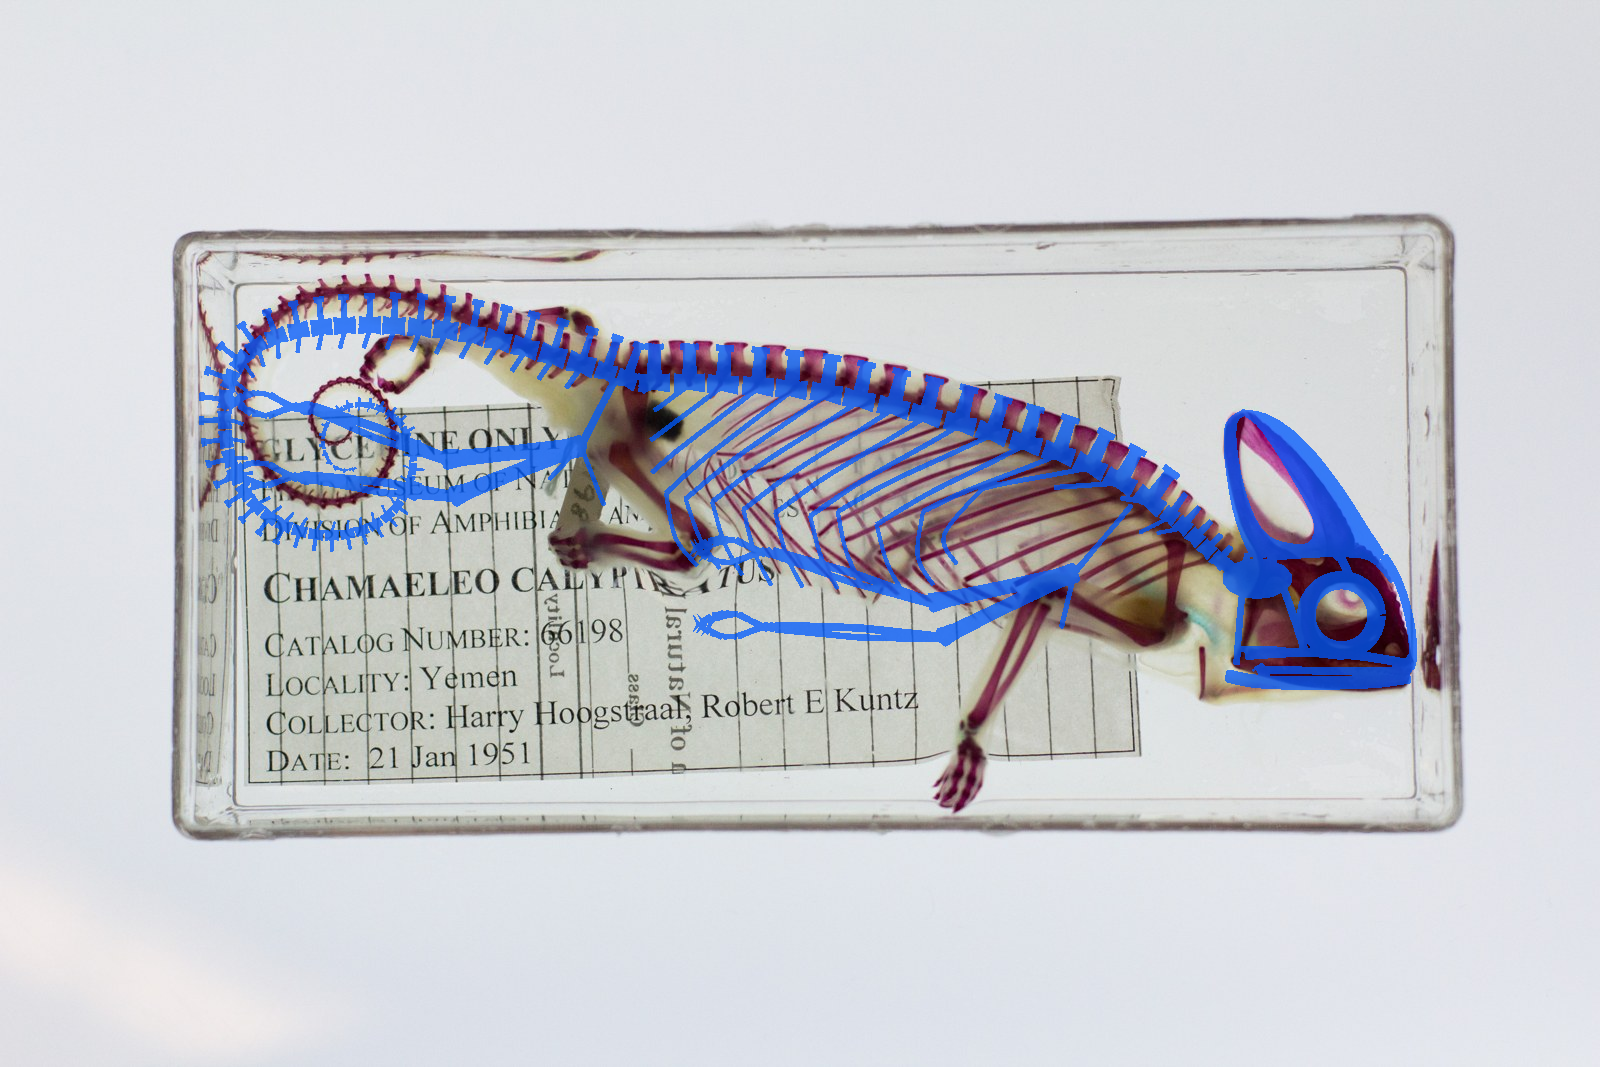
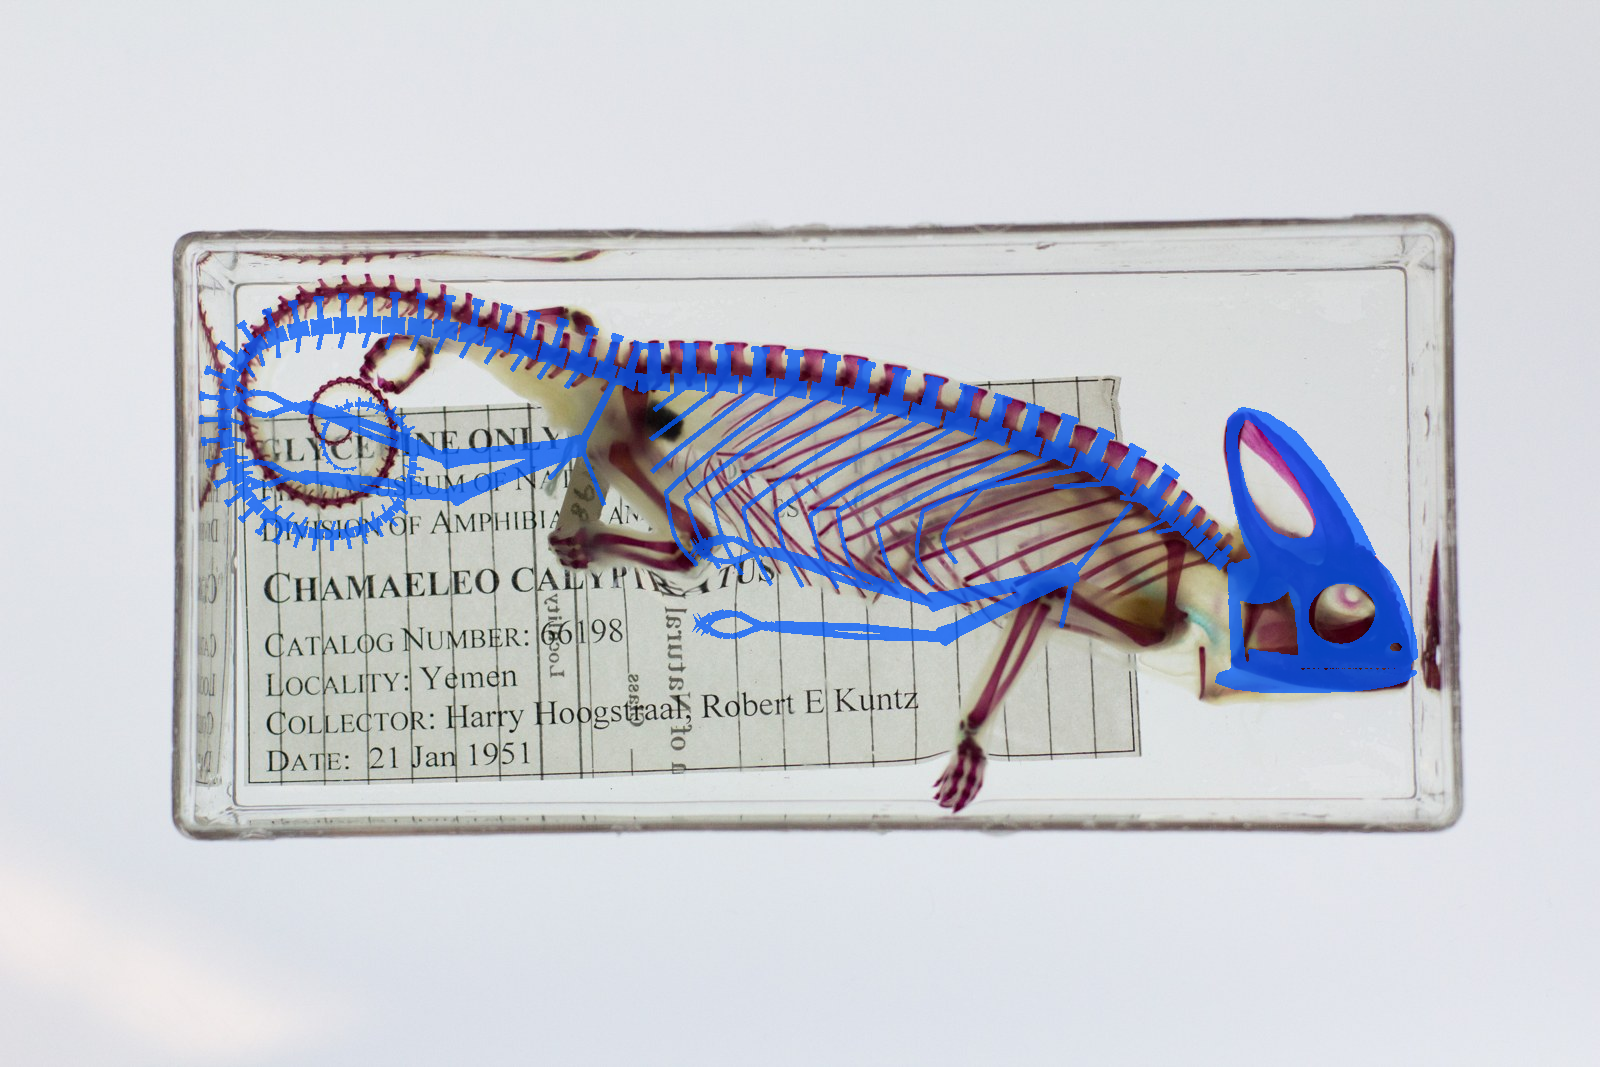
chameleon: rebuild skull from fused plates and bands (no more wire cage)
- chameleon_skull.py: lateral plates with real openings (orbit, nostril, preorbital; lower temporal
  opening left open below as in squamates), roof, casque blade with paired squamosal rods,
  deep mandible, interlocking teeth, quadrate/pterygoid, tubercles; voxel-remeshed into one shell,
  smoothed, dorsal rugosity, decimated
- casque height stays at 06 (1.5x skull length) per producer
- ratios unchanged (4.56 / 0.47 / 1.55); stills and 06 overlay regenerated
- watermarked pasted references ignored; 07 removed by the producer

Claude-Session: https://claude.ai/code/session_01TF4RLk5KhXAPd4WrhCdN5z

Changed region(s): [[0.75, 0.4948, 0.9062, 0.6495]]

diff --git a/blender/chameleon_skull.py b/blender/chameleon_skull.py
@@ -1,0 +1,327 @@
+"""
+エボシカメレオン頭骨（手順 1 の作り直し、2026-10-12）
+
+方針: 骨を細い管で組まない。実物の輪郭どおりの「穴のあいた板」と「帯」を作り、
+重ねたまま Voxel Remesh で 1 つの殻に融合し、ならしてから表面のざらつきを付ける。
+
+頭の局所座標（generate_chameleon_contour.Head と同じ）:
+  a = 方形骨の後縁 0 → 吻端 1（頭骨長 L = 1）、b = 顎の線から背側へ、y = 左右。
+  画素 (x, y) は [06] の原寸で a = (x - 3975) / 601、b = (2160 - y) / 601。
+
+形の出どころ:
+  [06]  外形・かぶと・眼窩・背側の稜・鼻孔の位置・下顎の下縁（実物の C. calyptratus 標本の側面）
+  [p6]  ユーザーが保存した頭骨の側面写真（透かし入り、リポジトリ外）: 側頭窓・眼窩前の孔・方形骨の柱・下顎の高さ
+  [p4][p1] 斜め前と正面の写真: 幅（眼窩で最も広く、吻と頭頂へ狭まる。かぶとは正中の薄い刃）
+  幅の値（眼窩の高さで半幅 0.24 L）は p1 の目測で、測定ではない。
+"""
+
+import math
+
+import bmesh
+import bpy
+import numpy as np
+from mathutils import Vector, noise
+
+
+def px2ab(x, y):
+    return ((x - 3975.0) / 601.0, (2160.0 - y) / 601.0)
+
+
+def interp(table, x):
+    xs = [p[0] for p in table]
+    ys = [p[1] for p in table]
+    return float(np.interp(x, xs, ys))
+
+
+def ellipse(c, ra, rb, n=40, rot=0.0):
+    cr, sr = math.cos(rot), math.sin(rot)
+    out = []
+    for k in range(n):
+        t = 2 * math.pi * k / n
+        u, v = ra * math.cos(t), rb * math.sin(t)
+        out.append((c[0] + u * cr - v * sr, c[1] + u * sr + v * cr))
+    return out
+
+
+def inside(poly, P):
+    """点の配列 P (N,2) が多角形 poly の内側か（偶奇則）。"""
+    x, y = P[:, 0], P[:, 1]
+    res = np.zeros(len(P), dtype=bool)
+    n = len(poly)
+    for i in range(n):
+        x1, y1 = poly[i]
+        x2, y2 = poly[(i + 1) % n]
+        cond = ((y1 > y) != (y2 > y))
+        with np.errstate(divide="ignore", invalid="ignore"):
+            xin = (x2 - x1) * (y - y1) / (y2 - y1 + 1e-12) + x1
+        res ^= cond & (x < xin)
+    return res
+
+
+def slab(bm, outline, holes, to3d, thick_vec, res=0.008):
+    """(u, v) 平面の領域（outline の内側、holes の外側）を格子で埋め、厚みのある閉じた板にする。
+    to3d(u, v) → 表の面の点、thick_vec(u, v) → 裏へ向かう厚みのベクトル。"""
+    us = [p[0] for p in outline]
+    vs = [p[1] for p in outline]
+    u0, u1, v0, v1 = min(us), max(us), min(vs), max(vs)
+    nu, nv = int((u1 - u0) / res) + 2, int((v1 - v0) / res) + 2
+    cu = u0 + (np.arange(nu) + 0.5) * res
+    cv = v0 + (np.arange(nv) + 0.5) * res
+    G = np.stack(np.meshgrid(cu, cv, indexing="ij"), -1).reshape(-1, 2)
+    m = inside(outline, G)
+    for h in holes:
+        m &= ~inside(h, G)
+    m = m.reshape(nu, nv)
+    verts = {}
+
+    def V(i, j, layer):
+        key = (i, j, layer)
+        if key not in verts:
+            u, v = u0 + i * res, v0 + j * res
+            p = to3d(u, v)
+            if layer:
+                p = p + thick_vec(u, v)
+            verts[key] = bm.verts.new(p)
+        return verts[key]
+
+    for i in range(nu):
+        for j in range(nv):
+            if not m[i, j]:
+                continue
+            a, b, c, d = (i, j), (i + 1, j), (i + 1, j + 1), (i, j + 1)
+            bm.faces.new([V(*a, 0), V(*b, 0), V(*c, 0), V(*d, 0)])
+            bm.faces.new([V(*d, 1), V(*c, 1), V(*b, 1), V(*a, 1)])
+            for (p, q), (di, dj) in (((a, b), (0, -1)), ((b, c), (1, 0)), ((c, d), (0, 1)), ((d, a), (-1, 0))):
+                ni, nj = i + di, j + dj
+                if not (0 <= ni < nu and 0 <= nj < nv and m[ni, nj]):
+                    bm.faces.new([V(*p, 0), V(*p, 1), V(*q, 1), V(*q, 0)])
+
+
+# ---------------------------------------------------------------- 形の表（a, b）
+# 頭骨の側面の外周 [06]: 顎の線 → 吻端 → 背側のぎざぎざの稜 → 眼窩の上の屋根 → 後ろの方形骨
+DORSAL_RIDGE = [px2ab(x, y) for x, y in ((4600, 2150), (4596, 2080), (4575, 2000), (4545, 1920), (4505, 1850), (4450, 1800))]
+# 有鱗類は下側頭弓が無いので、眼窩の後ろの下側頭窓は下が開いている（[p6] 眼窩の後ろから翼状骨が見える）。
+# 側面の板は、眼窩の後ろの柱（後眼窩骨）と、その上の上側頭弓の帯だけを後ろへ伸ばす
+LATERAL_OUTLINE = ([(0.405, 0.0), (0.98, 0.0), (1.02, 0.04)] + DORSAL_RIDGE[1:] +
+                   [(0.70, 0.635), (0.55, 0.645), (0.42, 0.635), (0.30, 0.62), (0.18, 0.60), (0.10, 0.578),
+                    (0.05, 0.55), (0.04, 0.50), (0.12, 0.465), (0.28, 0.46), (0.345, 0.43), (0.375, 0.34),
+                    (0.385, 0.20), (0.39, 0.08)])
+ORBIT_C = (0.632, 0.30)      # [06] 眼球の中心（0.29）より少し上。[p6] 眼窩の上縁は屋根に近い
+ORBIT_R = (0.205, 0.19)      # 骨の開口。[p6] 開口の幅は頭骨長の約 0.3、縁を含めて 0.45（[06]）
+ORBIT_ROT = 0.25             # 後ろ上がりの卵形（[p6]）
+# 眼窩の後ろの下側頭窓 [p6]（眼窩との間に太い後眼窩骨の柱を残す）
+TEMPORAL = [(0.13, 0.20), (0.30, 0.15), (0.37, 0.21), (0.375, 0.34), (0.32, 0.45), (0.19, 0.46), (0.115, 0.38), (0.105, 0.28)]
+NOSTRIL = ellipse(px2ab(4528, 2095), 0.032, 0.022, 20)                 # [06] 吻の先の明るい点
+PREORBITAL = ellipse((0.865, 0.30), 0.02, 0.034, 16, rot=-0.5)        # [p6] 眼窩前の小孔
+
+# 左右の半幅（a に沿って）と、高さによる絞り。眼窩の縁は外へ張り出す
+HALF_WIDTH = [(0.0, 0.165), (0.15, 0.185), (0.35, 0.205), (0.55, 0.215), (0.70, 0.20), (0.82, 0.16), (0.92, 0.105), (0.98, 0.06), (1.03, 0.025)]
+# 顎の高さでは細く、眼窩の高さで最も広く、屋根へ向かって絞る（[p1][p4]）
+HEIGHT_PINCH = [(-0.2, 0.70), (0.0, 0.78), (0.15, 0.94), (0.30, 1.0), (0.45, 0.92), (0.58, 0.72), (0.66, 0.58)]
+
+
+# 吻では左右の背側の稜が正中へ寄り、顔は上から下へ外へ開く斜面になる（[p4] 吻は楔形）
+HEIGHT_PINCH_SNOUT = [(-0.2, 0.75), (0.0, 0.85), (0.15, 0.92), (0.30, 0.80), (0.45, 0.55), (0.60, 0.38)]
+
+
+def lat_skull(a, b):
+    f = min(1.0, max(0.0, (a - 0.70) / 0.15))
+    pinch = (1 - f) * interp(HEIGHT_PINCH, b) + f * interp(HEIGHT_PINCH_SNOUT, b)
+    y = interp(HALF_WIDTH, a) * pinch
+    # 眼窩の縁の張り出し（縁の帯で最大）
+    da = (a - ORBIT_C[0]) / ORBIT_R[0]
+    db = (b - ORBIT_C[1]) / ORBIT_R[1]
+    r = math.hypot(da, db)
+    y += 0.05 * math.exp(-((r - 1.12) / 0.3) ** 2)
+    # 起伏: 頬骨の丸い帯（眼窩の下）、後眼窩骨の柱、背側の稜は外へ、眼窩と鼻孔のあいだの顔はわずかに凹む
+    if a > 0.38:
+        y += 0.02 * math.exp(-((b - 0.05) / 0.045) ** 2)
+    y += 0.015 * math.exp(-((a - 0.40) / 0.035) ** 2) * (1.0 if b < 0.5 else 0.0)
+    y -= 0.012 * math.exp(-((a - 0.86) / 0.06) ** 2 - ((b - 0.22) / 0.12) ** 2)
+    return y
+
+
+def top_b(a):
+    """背側の輪郭の高さ（屋根の高さ）。"""
+    pts = [p for p in LATERAL_OUTLINE if p[1] > 0.1]
+    pts = sorted(pts, key=lambda p: p[0])
+    return interp(pts, a)
+
+
+# かぶと [06]（外周と、内側の窓）
+CASQUE_OUTER = [px2ab(x, y) for x, y in (
+    (4030, 1325), (4110, 1345), (4200, 1405), (4280, 1505), (4345, 1605), (4400, 1700), (4450, 1800),
+    (4400, 1815), (4280, 1835), (4150, 1820), (4075, 1810), (4048, 1760), (4020, 1665), (3998, 1545),
+    (3988, 1430), (3992, 1362))]   # 後ろの縁は細い棒（鱗状骨）だけにするため、内側の窓へ寄せた
+CASQUE_INNER = [px2ab(x, y) for x, y in (
+    (4040, 1352), (4085, 1385), (4140, 1450), (4200, 1540), (4245, 1620), (4272, 1690), (4255, 1735),
+    (4195, 1745), (4130, 1720), (4080, 1660), (4045, 1580), (4022, 1490), (4015, 1410))]
+
+
+def lat_casque(a, b):
+    """前上の帯（頭頂稜）は正中で薄い刃。後ろ下（鱗状骨の 2 本）ほど左右へ開く。"""
+    f_low = min(1.0, max(0.0, (1.40 - b) / 0.85))
+    f_back = min(1.0, max(0.0, 1.0 - (a - 0.05) / 0.35))
+    return 0.006 + 0.15 * (f_low ** 1.3) * f_back
+
+
+# 下顎 [06][p6]: 口は閉じている。後ろほど深く、鉤状突起が上へ立つ
+MANDIBLE_OUTLINE = [(1.03, -0.012), (0.75, -0.016), (0.40, -0.016), (0.27, 0.0), (0.20, 0.06), (0.15, 0.055),
+                    (0.10, -0.005), (0.02, -0.012), (-0.045, -0.035), (-0.05, -0.08), (0.05, -0.115), (0.20, -0.132),
+                    (0.45, -0.135), (0.70, -0.125), (0.88, -0.10), (0.98, -0.068), (1.035, -0.035)]
+MANDIBLE_HALF = [(-0.05, 0.135), (0.1, 0.14), (0.3, 0.145), (0.55, 0.145), (0.8, 0.11), (0.95, 0.055), (1.04, 0.015)]
+
+
+# ---------------------------------------------------------------- 組み立て
+def build_skull_mesh(H, Builder, def_bone, spine, bone_mat, coll, voxel=0.0065, target_faces=70000):
+    sk = Builder()
+    sk.set_group("Head")
+    bm = sk.bm
+    ab = H.ab
+    LY = Vector((0, 1, 0))
+
+    for side in (-1, 1):
+        # 1. 側面の板（上顎・頬骨・前前頭骨・後眼窩骨・鱗状骨の外側の面を一枚に）
+        holes = [ellipse(ORBIT_C, ORBIT_R[0], ORBIT_R[1], 48, ORBIT_ROT), NOSTRIL, PREORBITAL]
+        slab(bm, LATERAL_OUTLINE, holes,
+             lambda u, v, s=side: ab(u, v, s * lat_skull(u, v)),
+             lambda u, v, s=side: LY * (-s * 0.026))
+        # 2. 眼窩の縁の帯（上と前で太く、後ろで細い）
+        ring = []
+        rads = []
+        for k in range(49):
+            t = 2 * math.pi * k / 48
+            cr, sr = math.cos(ORBIT_ROT), math.sin(ORBIT_ROT)
+            du, dv = ORBIT_R[0] * 1.06 * math.cos(t), ORBIT_R[1] * 1.06 * math.sin(t)
+            u, v = ORBIT_C[0] + du * cr - dv * sr, ORBIT_C[1] + du * sr + dv * cr
+            ring.append(ab(u, v, side * (lat_skull(u, v) + 0.008)))
+            top = max(0.0, math.sin(t))
+            front = max(0.0, math.cos(t))
+            rads.append(0.03 + 0.02 * top + 0.012 * front)
+        sk.tube(ring, rads, sides=10, cap=False)
+        # 3. 方形骨の柱と、口蓋から下へ張り出す翼状骨
+        sk.tube([ab(0.045, 0.53, side * 0.135), ab(0.05, 0.30, side * 0.15), ab(0.07, 0.04, side * 0.155), ab(0.075, -0.015, side * 0.15)],
+                [0.03, 0.034, 0.042, 0.05], sides=10)
+        slab(bm, [(0.12, 0.10), (0.42, 0.06), (0.40, -0.02), (0.26, -0.07), (0.14, -0.04)], [],
+             lambda u, v, s=side: ab(u, v, s * (0.06 + 0.06 * (0.42 - u))),
+             lambda u, v, s=side: LY * (-s * 0.02))
+        # 4. 上顎の歯の土台（内側へ少し張り出す棚）
+        slab(bm, [(0.40, -0.002), (1.0, -0.002), (1.0, 0.035), (0.40, 0.035)], [],
+             lambda u, v, s=side: ab(u, v, s * lat_skull(u, 0.0)),
+             lambda u, v, s=side: LY * (-s * 0.05))
+        # 5. かぶと（頭頂稜の刃と、後ろの 2 本の鱗状骨）
+        slab(bm, CASQUE_OUTER, [CASQUE_INNER],
+             lambda u, v, s=side: ab(u, v, s * lat_casque(u, v)),
+             lambda u, v, s=side: LY * (-s * 0.016), res=0.007)
+        # 後ろの縁: 左右の鱗状骨は細い丸い棒（[p6] 2 本が頂で合わさる）
+        back = CASQUE_OUTER[10:] + CASQUE_OUTER[:1]
+        sk.tube([ab(u, v, side * (lat_casque(u, v) + 0.004)) for u, v in reversed(back)],
+                [0.02] * len(back), sides=8)
+        # 6. 下顎の板と、丸い下縁
+        slab(bm, MANDIBLE_OUTLINE, [],
+             lambda u, v, s=side: ab(u, v, s * interp(MANDIBLE_HALF, u)),
+             lambda u, v, s=side: LY * (-s * 0.035))
+        low = [p for p in MANDIBLE_OUTLINE if p[1] < -0.04]
+        low = sorted(low, key=lambda p: p[0])
+        sk.tube([ab(u, v + 0.018, side * (interp(MANDIBLE_HALF, u) - 0.022)) for u, v in low],
+                [0.026] * len(low), sides=10)
+
+    # 7. 屋根（眼窩の間の前頭骨〜頭頂骨、吻の上の鼻骨）: 背側の輪郭に沿って左右の板をつなぐ
+    def roof3d(u, t):
+        bt = top_b(u)
+        w = lat_skull(u, bt - 0.01) * 0.94
+        return ab(u, bt - 0.014 + 0.02 * (1 - t * t), t * w)
+    slab(bm, [(0.10, -1.0), (1.015, -1.0), (1.015, 1.0), (0.10, 1.0)], [], roof3d,
+         lambda u, t: -H.B * 0.03, res=0.01)
+    # かぶとの前縁: 頭頂稜は丸く太い稜（[p4][p6]）
+    front = CASQUE_OUTER[:7]
+    sk.tube([ab(u - 0.006, v - 0.006, 0.0) for u, v in front], [0.024 + 0.012 * k / 6 for k in range(7)], sides=10)
+    # 8. 脳函と後頭顆（外からはほとんど見えない）
+    sk.ellipsoid(ab(0.18, 0.45, 0.0), H.A * 0.17, Vector((0, 0.11, 0)), H.B * 0.11, 16)
+    sk.ellipsoid(ab(0.04, 0.53, 0.0), H.A * 0.035, Vector((0, 0.04, 0)), H.B * 0.035, 10)
+    # 9. 歯: 上下の縁に細かい三角が交互に並ぶ（口を閉じたので、のこぎりの線になる）
+    for side in (-1, 1):
+        for k in range(26):
+            u = 0.20 + 0.78 * k / 25
+            w = interp(HALF_WIDTH, u) - 0.012
+            sk.cone(ab(u, 0.004, side * w), ab(u, -0.024, side * w), 0.012, 4)
+            u2 = u + 0.015
+            wm = interp(MANDIBLE_HALF, u2) - 0.006
+            sk.cone(ab(u2, -0.02, side * wm), ab(u2, 0.006, side * wm), 0.011, 4)
+    # 10. 結節: 背側の稜、眼窩の上縁、かぶとの前縁に並ぶ小さな突起
+    ridge = []
+    for (u0, v0), (u1, v1) in zip(DORSAL_RIDGE, DORSAL_RIDGE[1:]):
+        for k in range(6):
+            f = k / 6
+            ridge.append((u0 + (u1 - u0) * f, v0 + (v1 - v0) * f))
+    for side in (-1, 1):
+        for u, v in ridge[2:]:
+            sk.ellipsoid(ab(u - 0.01, v, side * (lat_skull(u, v) * 0.85)), H.A * 0.016, Vector((0, 0.016, 0)), H.B * 0.016, 6)
+        for k in range(10):
+            t = 0.35 + 0.65 * k / 9          # 眼窩の上縁（前上から真上）
+            ang = math.pi * (0.25 + 0.5 * t)
+            u = ORBIT_C[0] + ORBIT_R[0] * 1.25 * math.cos(ang)
+            v = ORBIT_C[1] + ORBIT_R[1] * 1.25 * math.sin(ang)
+            sk.ellipsoid(ab(u, v, side * (lat_skull(u, v) + 0.005)), H.A * 0.014, Vector((0, 0.012, 0)), H.B * 0.014, 6)
+    for k in range(18):
+        f = k / 17
+        i = f * (6 - 1)
+        i0 = int(i)
+        i1 = min(6, i0 + 1)
+        (u0, v0), (u1, v1) = CASQUE_OUTER[i0], CASQUE_OUTER[i1]
+        g = i - i0
+        u, v = u0 + (u1 - u0) * g, v0 + (v1 - v0) * g
+        sk.ellipsoid(ab(u - 0.008, v - 0.008, 0.0), H.A * 0.013, Vector((0, 0.02, 0)), H.B * 0.013, 6)
+
+    ob = sk.emit("Skull", bone_mat, coll)
+    fuse(ob, voxel, target_faces, H)
+    return ob
+
+
+def fuse(ob, voxel, target_faces, H):
+    """板と帯を 1 つの殻に融合 → ならす → 上面のざらつき → 間引き。結果を実メッシュにする。"""
+    m = ob.modifiers.new("Fuse", "REMESH")
+    m.mode = "VOXEL"
+    m.voxel_size = voxel
+    m.adaptivity = 0.0
+    m.use_smooth_shade = True
+    s = ob.modifiers.new("Soften", "SMOOTH")
+    s.factor = 0.6
+    s.iterations = 6
+    dg = bpy.context.evaluated_depsgraph_get()
+    me = bpy.data.meshes.new_from_object(ob.evaluated_get(dg))
+    ob.modifiers.clear()
+    old = ob.data
+    ob.data = me
+    bpy.data.meshes.remove(old)
+    # ざらつき: 背側ほど強い細かな凹凸（[p4] 頭の上の面全体が顆粒状）
+    bmx = bmesh.new()
+    bmx.from_mesh(me)
+    bmx.normal_update()
+    org = H.origin
+    for v in bmx.verts:
+        rel = v.co - org
+        b = rel.dot(H.B)
+        w = min(1.0, max(0.0, (b - 0.15) / 0.4))
+        n1 = noise.noise(v.co * 55.0)
+        n2 = noise.noise(v.co * 130.0 + Vector((3.1, 1.7, 0.4)))
+        v.co += v.normal * ((0.0045 * n1 + 0.0025 * n2) * (0.1 + 0.9 * w))
+    bmx.to_mesh(me)
+    bmx.free()
+    # 間引き（ウェブで扱える面数へ）
+    if len(me.polygons) > target_faces:
+        d = ob.modifiers.new("Thin", "DECIMATE")
+        d.ratio = target_faces / len(me.polygons)
+        dg = bpy.context.evaluated_depsgraph_get()
+        me2 = bpy.data.meshes.new_from_object(ob.evaluated_get(dg))
+        ob.modifiers.clear()
+        ob.data = me2
+        bpy.data.meshes.remove(me)
+        me = me2
+    for p in me.polygons:
+        p.use_smooth = True
+    ob.vertex_groups.clear()
+    vg = ob.vertex_groups.new(name="Head")
+    vg.add(list(range(len(me.vertices))), 1.0, "REPLACE")
+    if not me.materials:
+        pass

diff --git a/blender/generate_chameleon_contour.py b/blender/generate_chameleon_contour.py
@@ -30,6 +30,11 @@ import sys
 from mathutils import Vector, Matrix
 
 PREFIX = "CH_"
+PLATE_SKULL = True    # False で以前の管で組んだ頭骨（比較用）
+try:
+    HERE = os.path.dirname(os.path.abspath(__file__))
+except NameError:
+    HERE = "/Users/shoui/transparent-aquarium/transparent-aquarium/blender"
 
 # ---------------------------------------------------------------- 測った数（L = 頭骨長）
 M = {
@@ -334,6 +339,13 @@ def build_skull(spine, bone_mat, coll):
     up_lat = Vector((0, 1, 0))
     c0 = spine.at(0.0)[0]
     def_bone("Head", c0, c0 + H.A * 0.6, "v00")
+    if PLATE_SKULL:
+        # 2026-10-12 作り直し: 板と帯を融合した頭骨（chameleon_skull.py）
+        sk.bm.free()
+        import runpy
+        cs = runpy.run_path(os.path.join(HERE, "chameleon_skull.py"), run_name="chameleon_skull")
+        cs["build_skull_mesh"](H, Builder, def_bone, spine, bone_mat, coll)
+        return H
 
     def lat_casque(a, b):
         """かぶとの左右の開き: 前上の帯（頭頂稜）は正中に寄り、後ろ下（鱗状骨）ほど外へ開く。"""

diff --git a/docs/動く透明標本_最短開発手順_v1.0.md b/docs/動く透明標本_最短開発手順_v1.0.md
@@ -75,6 +75,7 @@
 | 比率を、瓶の姿勢の静止画だけで確かめようとした | 直線の比（吻端〜仙骨など）は姿勢で変わる。瓶の姿勢と写真の姿勢では比べられない | 同じ骨格を、正の写真の姿勢でも作って重ねる（カメレオンは `CH_POSE=lightbox06`）。比べるのは弧長と、重ねた輪郭 |
 | カメレオンの呼吸を、肋骨が背骨の軸まわりに左右へ開く動きだけで作った | 開く向きがカメラの奥行きと同じで、側面からは動いて見えなかった | 動きは、見る向きで動くかを先に確かめる。側面の標本なら、肋骨が前へ起きて腹が深くなる成分を入れる |
 | Blender の材質を、ノードの英語名（`Principled BSDF`）で探した | 日本語表示の Blender ではノード名が訳され、見つからずに止まった | ノードは名前でなく種類（`BSDF_PRINCIPLED` など）で探す。新しいスクリプトは、ユーザーの Blender でも一度通す |
+| 骨を、太さが一定の細い管で組んだ | 比率は合っても「針金の檻」に見え、標本の質感にならなかった（カメレオン頭骨） | 骨は実物の輪郭どおりの板と帯で作り、重ねて Voxel Remesh で一つの殻に融合してからならす。開いている所だけ穴にする。参考と同じ角度の並べ画像で毎回比べる |
 
 写真を表面に貼る案、瓶の中で水槽と同じ広い泳ぎをする案、ブラウザで全光線追跡する案は、計画の時点で棄却済みである。次の生き物でも採用しない。
 

diff --git a/docs/カメレオン透明標本_計画書_v1.0.md b/docs/カメレオン透明標本_計画書_v1.0.md
@@ -139,6 +139,8 @@
 
 出口: 第4節の比 1、2、3、5 が、この姿勢の静止画と一致する。
 
+頭骨の作り直し（2026-10-12、プロデューサーの指摘「クオリティが低すぎる」）: 細い管で組んだ頭骨をやめ、`blender/chameleon_skull.py` で「穴のあいた板と帯」を重ねて Voxel Remesh で一つの殻に融合した。側面の外形・かぶと・眼窩・鼻孔は `06`、下側頭窓（下が開く。有鱗類は下側頭弓が無い）・眼窩前の孔・方形骨・下顎の深さはユーザー保存の頭骨写真、幅（眼窩で最大、吻は楔形）は斜め前・正面の写真による。かぶとの高さは `06` の 1.5 倍（プロデューサー決定）。眼窩の上縁・背側の稜・かぶとの前縁に結節、上面に細かなざらつき。比 2・3・5 は作り直しの前後で変わらない（4.56 / 0.47 / 1.55）。胴・四肢・尾は、まだ以前の管のまま。
+
 記録（2026-10-12）: 満たした。静止画は `docs/chameleon_step1/jar_still_white.png`、照合は `docs/chameleon_step1/check_overlay_on_06.png`。比の差は 1〜3%（第4節の表）。
 
 ### 手順 2 — 瓶に入る動きを1つ
